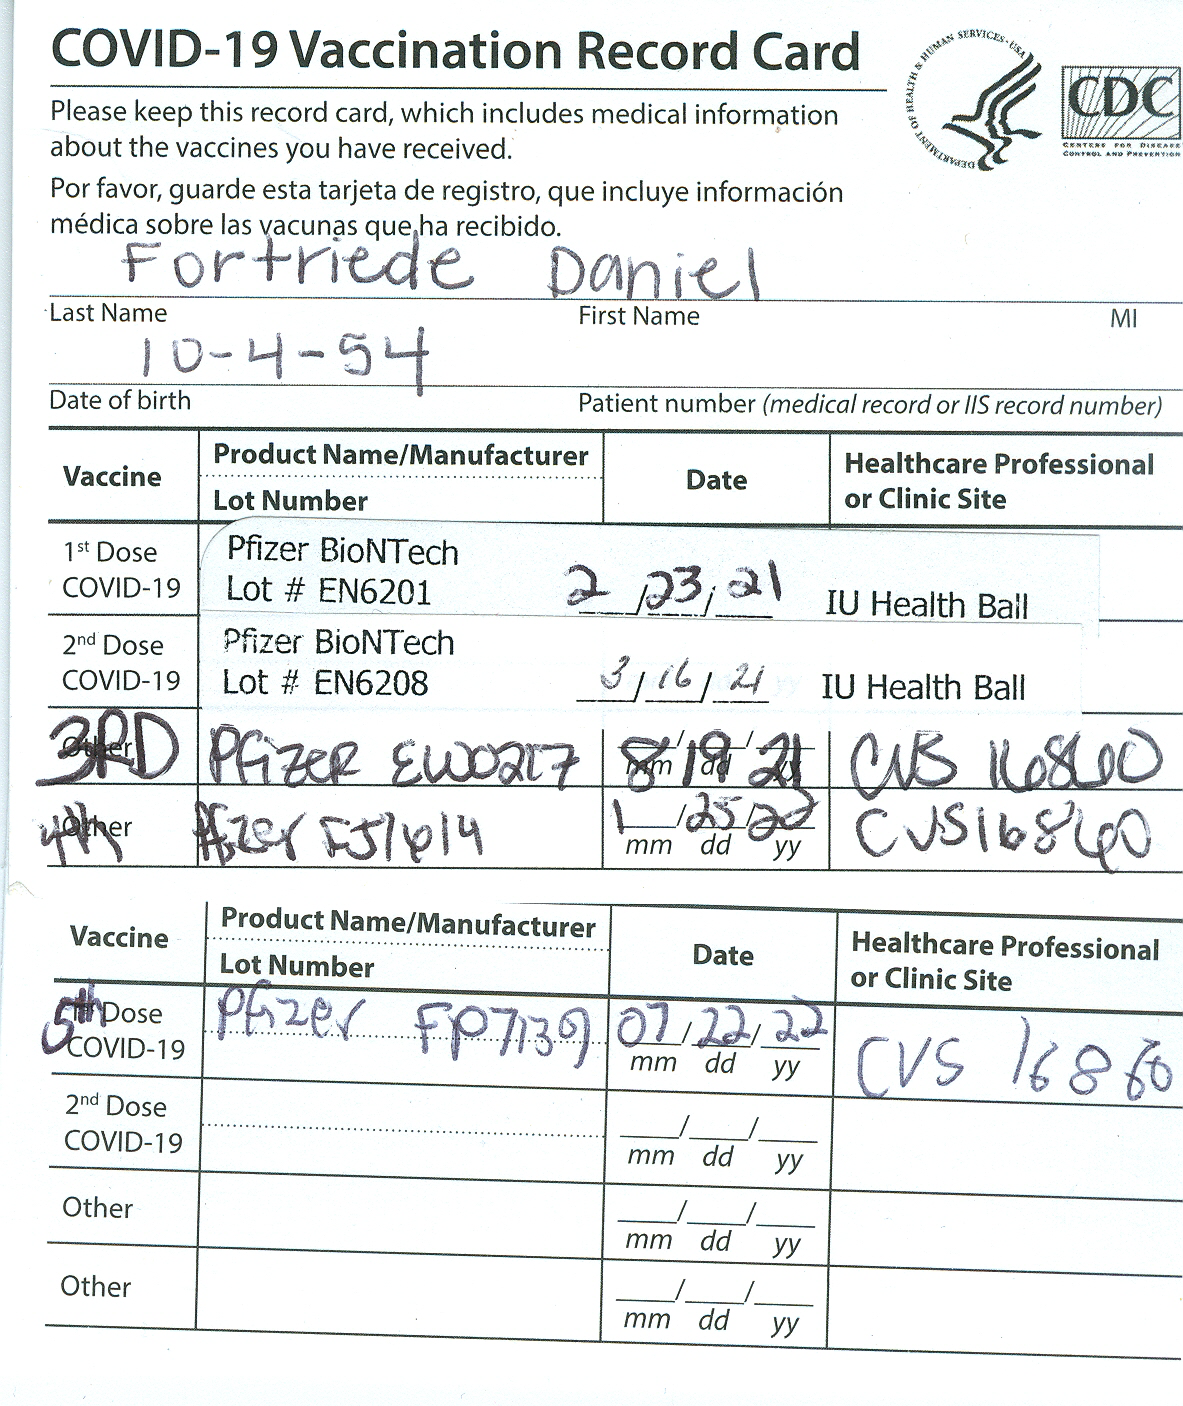
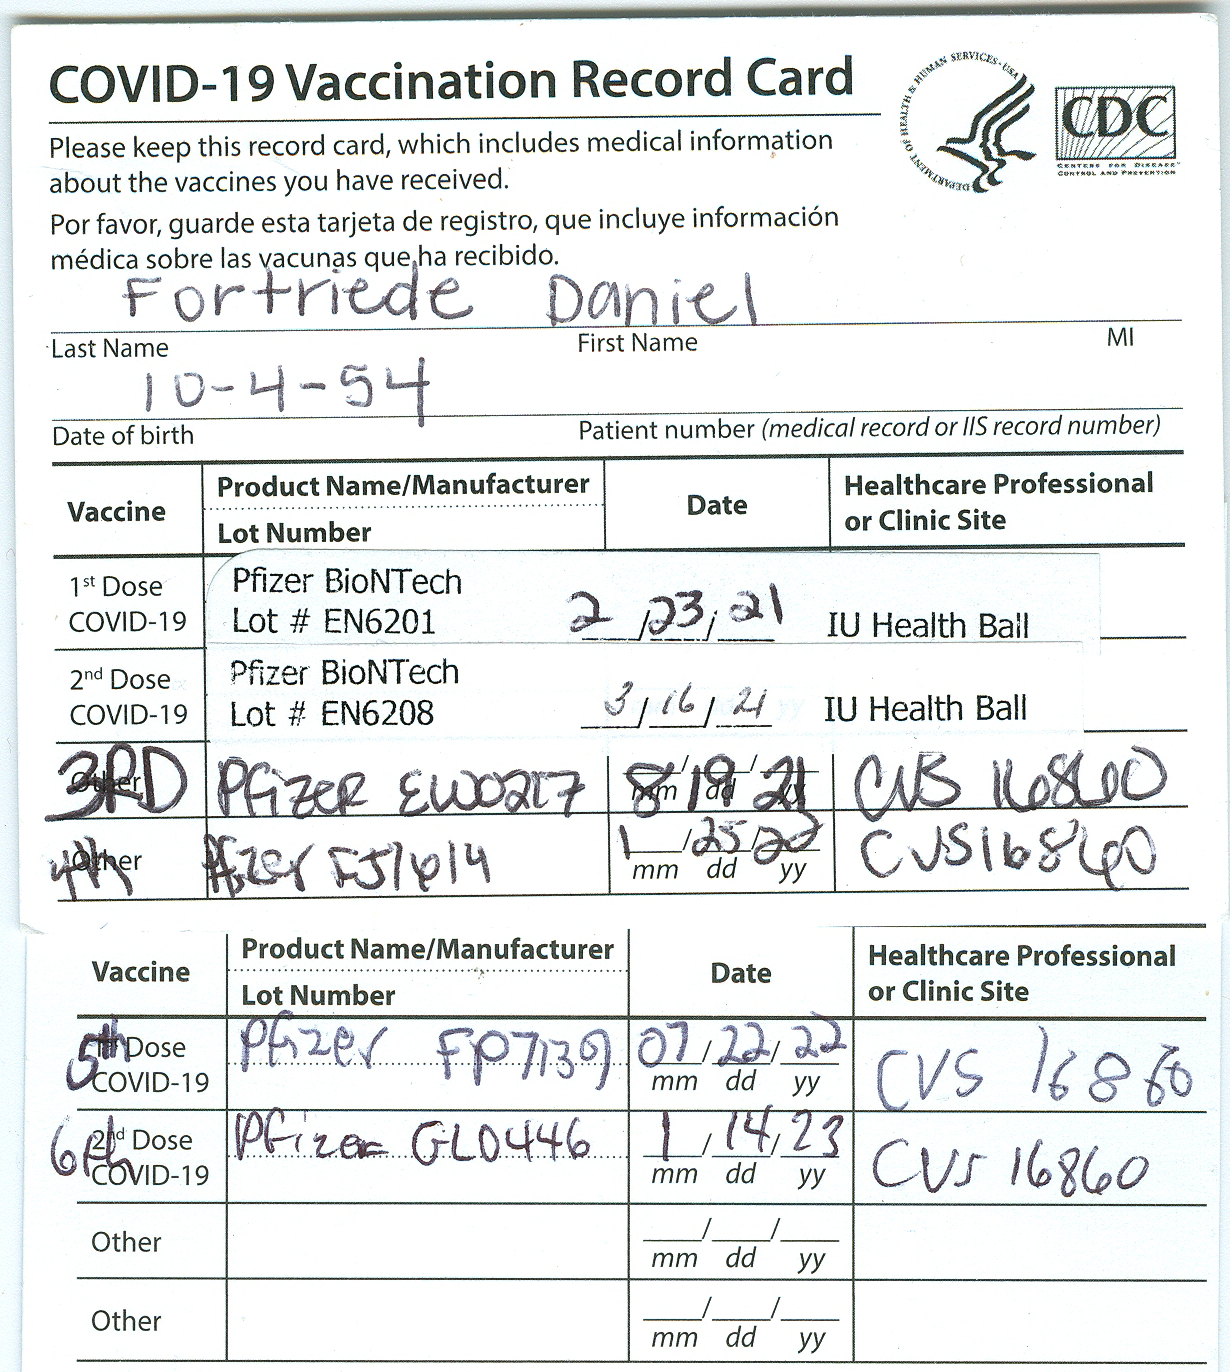
Covid 1/14/23 Updates
Updated covid information and cards.

Changed region(s): [[0.0, 0.0, 1.0, 1.0], [0.9434, 0.8878, 1.0, 1.0]]

diff --git a/Medical/JMF.html b/Medical/JMF.html
@@ -83,11 +83,12 @@
    <h3>Immunizations</h3>
    <div>
     <ul>
-     <li>Covid
+     <li>Covid <a href="../images/Covid Jeanne.png" class="xINFO">
      <li>Pfizer Lot # EN6208 3/16/2021
      <li>Pfizer Lot # ER8737 4/7/2021
      <li>Pfizer Lot # FH8020 11/13/2021
      <li>Pfizer Lot # FP7139 7/22/2022
+     <li>Pfizer Lot # GL0446 1/14/2023
     </ul>
     <ul>
      <li>Flu

diff --git a/Medical/DKF.html b/Medical/DKF.html
@@ -124,6 +124,7 @@ title="Click to view pacemaker documentation">Pacemaker/Defibulator 6/2/21</a>
      <li>Pfizer Lot #EW0217 8/19/2021
      <li>Pfizer Lot #FJ1614 1/25/2022
      <li>Pfizer Lot #FP7139 7/22/2022
+     <li>Pfizer Lot #GL0446 1/14/2023
     </ul>
     <ul>
      <li>Flu 1/10/2020
